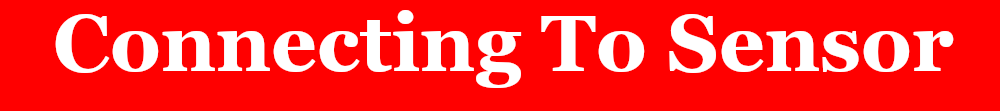
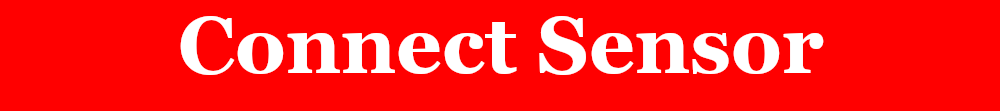
Setup fixes

Changed region(s): [[0.031, 0.0811, 0.961, 0.8108]]

diff --git a/AirU_Mobile/Views/Setup/ConnectionSetup.js b/AirU_Mobile/Views/Setup/ConnectionSetup.js
@@ -20,7 +20,7 @@ export default class ConnectionSetup extends Component<Props> {
         this.alertSetupSettings = this.alertSetupSettings.bind(this);
 
         this.state={bleConnected: false, sensorID: null, wifiConnected: false, error: '',
-                    WiFiName: '', WiFiPassword: '', WiFiError: false, testMode: TEST_MODE};
+                    WiFiName: '', WiFiPassword: '', WiFiError: false, testMode: true};
     }
 
     // displays alert to user if BT or WiFi is disabled on device
@@ -66,7 +66,7 @@ export default class ConnectionSetup extends Component<Props> {
     // used to get Sensor ID in connection step
     async connectToBluetooth() {
         // code use taken from https://polidea.github.io/react-native-ble-plx/ documentation
-        if (TEST_MODE) {
+        if (this.state.testMode) {
             this.alertSetupSettings(0)
         }
 
@@ -93,11 +93,12 @@ export default class ConnectionSetup extends Component<Props> {
         this.setState({WiFiError: false})
 
         // test mode settings
-        if (TEST_MODE) {
+        if (this.state.testMode) {
             if (this.state.WiFiName != "MyWiFi" && this.state.WiFiPassword != "password") {
                 this.setState({WiFiError: true})
                 return
             } else {
+                name = this.props.navigation.getParam(SENSOR_NAME, 'NameUndefined');
                 this.props.navigation.navigate('Privacy', { sensorName: name, sensorID: this.state.sensorID});
             }
         }
@@ -190,7 +191,10 @@ export default class ConnectionSetup extends Component<Props> {
         
         return (
             <ScrollView contentContainerStyle={{flexGrow: 1, justifyContent: 'space-between'}}>
-                <View style={{flex: 2, paddingTop: 30}}>
+                <View style={[styles.header, {flex: 2, paddingTop: 40, flexDirection: 'column'}]}>
+                    <Image source={require('../../Resources/Setup_Connecting.png')} style={{width: '140%', height: '100%'}}/>
+                </View>
+                <View style={{flex: 2}}>
                     <Text>Enable your Bluetooth and connect to the sensor. Once it is connected the device name will show below. 
                         Select your WiFi network to connect to, enter the password, then select 'Connect'.
                     </Text>

diff --git a/AirU_Mobile/Views/Setup/Privacy.js b/AirU_Mobile/Views/Setup/Privacy.js
@@ -23,17 +23,23 @@ export default class Privacy extends Component<Props> {
     render() {
         return (
             <View style={styles.mainView}>
+            <View style={[styles.header, {flex: 1, paddingTop: 30}]}>
+                    <Image source={require('../../Resources/Setup_Privacy.png')} style={{width: '140%', height: '100%'}}/>
+                </View>
                 <View style={{flex: 5, alignContent: 'center', justifyContent: 'center'}}>
-                    <Text style={{flex: 2}}>Your sensor has been successfully connected!
+                    <Text style={{flex: 1}}>Your sensor has been successfully connected!
                         Would you like to make your sensor visable publically? 
-                        This will allow people to view your sensor's location on a map and for researchers to directly use and access 
-                        the data your sensor gathers.
+                    </Text>
+                    <Text style={{flex: 1}}>
+                        This will allow people to view your sensor's location on a map 
+                        and for researchers to directly use and access 
+                        its data.
                     </Text>
                     <Text/>
                     <Image source={require('../../Resources/SensorPrivacy.png')} style={{width: '100%', height: '100%', flex: 4, alignContent: 'center'}}/>
                 </View>
                 {/* choice section */}
-                <View style={[styles.home, {flex: 3}]}>
+                <View style={[styles.home, {flex: 5}]}>
                     <TouchableHighlight style={styles.button} testID={'setPrivacyTrue'}
                             onPress={() => this.setPrivacy(true)}>
                         <Text style={styles.buttonText}>Allow</Text>

diff --git a/AirU_Mobile/Views/Setup/Confirmation.js b/AirU_Mobile/Views/Setup/Confirmation.js
@@ -154,7 +154,11 @@ export default class Confirmation extends Component<Props> {
     render() {
         return (
             <View style={styles.mainView}>
-                <View style={{flex: 3}}>
+            <View style={[styles.header, {flex: 1, paddingTop: 30}]}>
+                    <Image source={require('../../Resources/Setup_Confirmation.png')} 
+                        style={{width: '140%', height: '100%'}}/>
+                </View>
+                <View style={{flex: 7}}>
                     <Text>Sensor setup complete! If you have not finished mounting and securing your sensor already, please do so now.</Text>
                     <Text></Text>
                     <Text>If you need to adjust the settings for your sensor, you can do so in the settings</Text>
@@ -163,7 +167,7 @@ export default class Confirmation extends Component<Props> {
                     <Text/>
                     <Image source={require('../../Resources/Confirmation.jpg')} style={{width: '100%', height: '100%', flex: 4, alignContent: 'center'}}/>
                 </View>
-                <View style={[styles.home, {flex: 1}]}>
+                <View style={[styles.home, {flex: 3}]}>
                     <TouchableHighlight style={styles.button} 
                                         onPress={() => this.saveSensor()}>
                         <Text style={styles.buttonText}>Complete Setup</Text>

diff --git a/AirU_Mobile/Views/Setup/MountingSensor.js b/AirU_Mobile/Views/Setup/MountingSensor.js
@@ -17,8 +17,11 @@ export default class ReviewFirst extends Component<Props> {
                         navProps={{sensorName: this.state.sensorName}}/>
 
         return (
-            <View style={styles.mainView}>
-                <View style={{flex: 7, alignContent: 'flex-start'}}>
+            <View style={[styles.mainView, {paddingTop: 5}]}>
+                <View style={[styles.header, {flex: 1}]}>
+                    <Image source={require('../../Resources/Setup_Mounting.png')} style={{width: '150%', height: '95%'}}/>
+                </View>
+                <View style={{flex: 9, alignContent: 'flex-start'}}>
                     <View style={{flex: 2}}>
                         <Text>Find a suitible spot to mount the sensor outside. The location you choose should be: </Text>
                         <Text/>

diff --git a/AirU_Mobile/Views/Setup/ReviewFirst.js b/AirU_Mobile/Views/Setup/ReviewFirst.js
@@ -10,7 +10,8 @@ import NavBar from '../../Components/NavBar'
 export default class ReviewFirst extends Component<Props> {
     render() {
         return (
-            <ScrollView contentContainerStyle={styles.mainView} showsVerticalScrollIndicator={true}>
+            <ScrollView contentContainerStyle={[styles.mainView, {paddingTop: 5}]} 
+                        showsVerticalScrollIndicator={true}>
                 <View style={[styles.header, {flex: 1}]}>
                     <Image source={require('../../Resources/Setup_Packaging.png')} style={{width: '150%', height: '100%'}}/>
                 </View>
